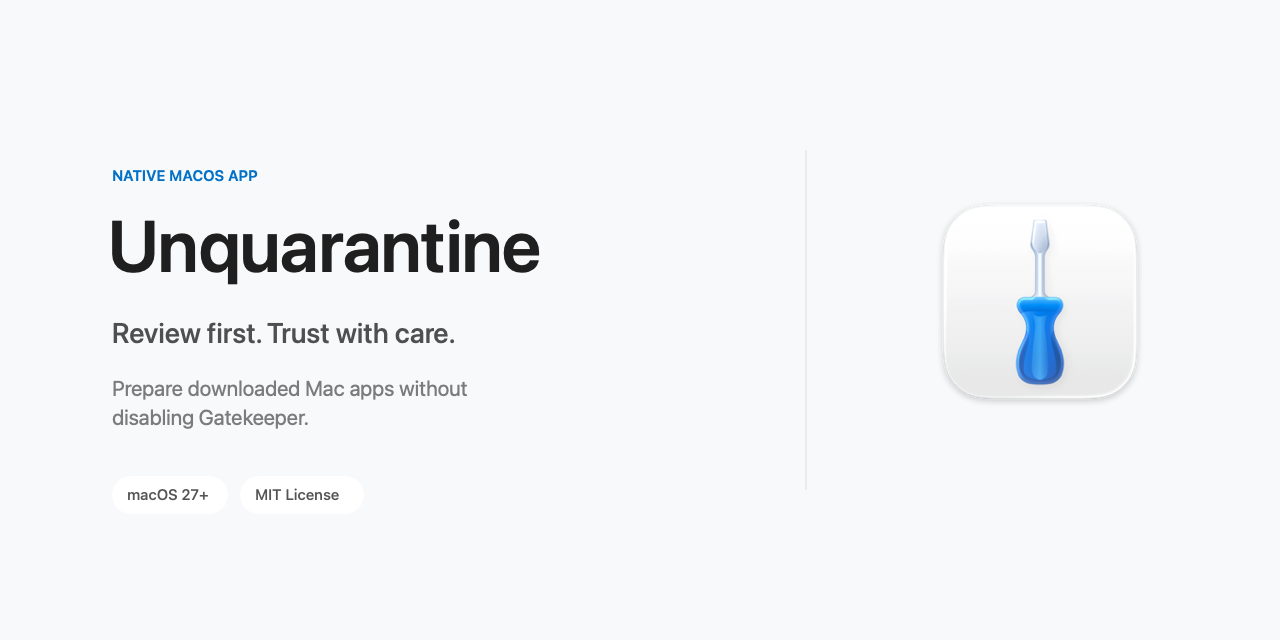
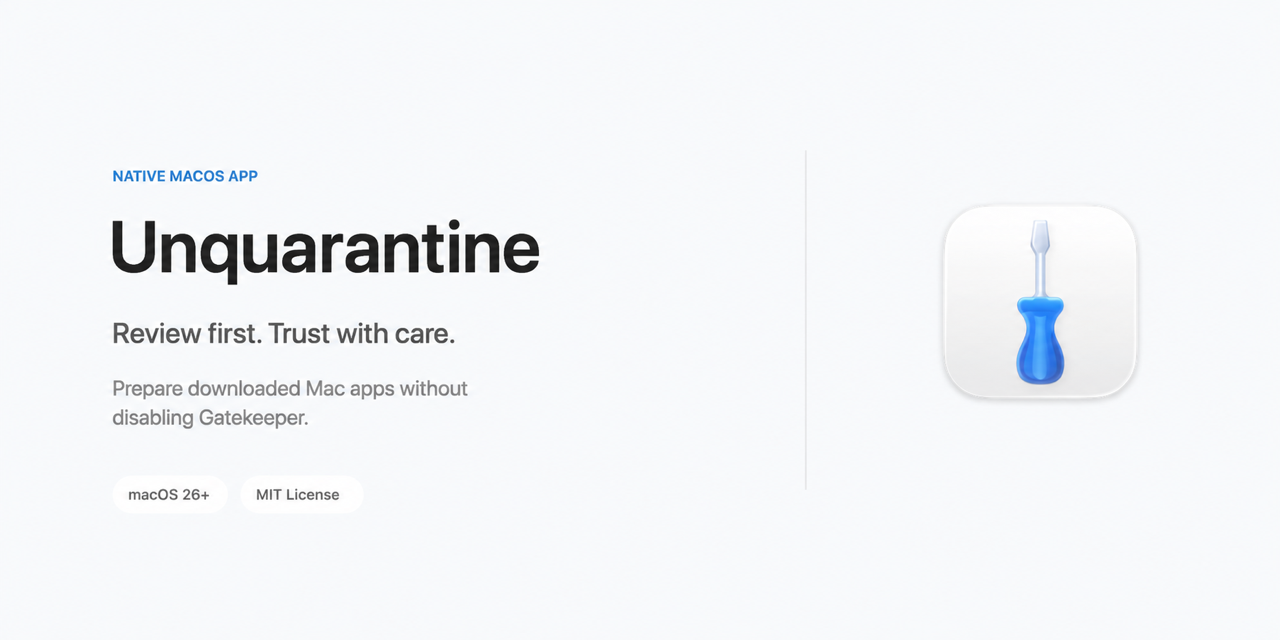
Prepare 0.1.0 release with universal macOS support

diff --git a/Sources/Unquarantine/UnquarantineApp.swift b/Sources/Unquarantine/UnquarantineApp.swift
@@ -84,7 +84,7 @@ private struct AboutView: View {
       Text("Unquarantine")
         .font(.system(size: 14, weight: .semibold))
 
-      Text("Version 1.0")
+      Text("Version \(version)")
         .font(.system(size: 11))
         .foregroundStyle(.secondary)
 
@@ -99,6 +99,10 @@ private struct AboutView: View {
         Color(nsColor: .windowBackgroundColor)
       }
     }
+  }
+
+  private var version: String {
+    Bundle.main.object(forInfoDictionaryKey: "CFBundleShortVersionString") as? String ?? "0.1.0"
   }
 
   private var coffeeGold: Color {

diff --git a/Package.swift b/Package.swift
@@ -5,7 +5,7 @@ import PackageDescription
 let package = Package(
     name: "Unquarantine",
     platforms: [
-        .macOS(.v27)
+        .macOS(.v26)
     ],
     targets: [
         .executableTarget(

diff --git a/README.md b/README.md
@@ -2,7 +2,7 @@
   <img src="docs/media/icon.png" alt="Unquarantine app icon" width="88" />
   <h1>Unquarantine</h1>
   <p>A quiet, deliberate way to prepare a downloaded Mac app.</p>
-  <p><strong>macOS 27 or later</strong> · SwiftUI · MIT</p>
+  <p><strong>Universal for Apple silicon and Intel</strong> · SwiftUI · macOS 26+ · MIT</p>
 </div>
 
 <p align="center">
@@ -12,6 +12,17 @@
 Unquarantine lets you review an app before removing its macOS quarantine flag.
 It works with `.app` bundles and disk images, and asks for administrator
 approval only when a copy into `/Applications` needs it.
+
+## Download
+
+Choose the installer for your Mac from the [0.1.0 release](https://github.com/ChloeVPin/Unquarantine/releases/tag/v0.1.0):
+
+- **Apple silicon:** macOS 26 or later
+- **Intel:** macOS 26
+
+Open the disk image and drag Unquarantine into Applications. These release
+builds are ad-hoc signed and not notarized, so macOS may ask you to confirm the
+first launch. In Finder, Control-click the app and choose **Open** to confirm.
 
 > Removing quarantine is an explicit exception, not a safety check. Unquarantine
 > does not scan apps or verify their developers.
@@ -30,7 +41,9 @@ ejects the image when the flow ends. It never replaces an app already in
 
 ## Build from source
 
-You’ll need a Mac with Xcode and the macOS 27 SDK.
+You’ll need Xcode with the macOS 27 SDK. The build produces a universal app for
+Apple silicon and Intel. Apple silicon Macs can run it on macOS 26 or later;
+Intel Macs can run it on macOS 26, the latest Intel-compatible release.
 
 ```sh
 ./scripts/build-app.sh

diff --git a/docs/ARCHITECTURE.md b/docs/ARCHITECTURE.md
@@ -28,6 +28,8 @@ off removes the LaunchAgent and copied helper.
 
 ## Build
 
-The package targets macOS 27. `scripts/build-app.sh` builds both executables,
-compiles the Icon Composer asset, assembles `dist/Unquarantine.app`, and applies
-an ad-hoc signature for local use.
+The package targets macOS 26 and builds with the macOS 27 SDK. The build script
+compiles both executables for arm64 and x86_64, combines each pair into a
+universal binary, compiles the Icon Composer asset, assembles
+`dist/Unquarantine.app`, and applies an ad-hoc signature for local use. macOS 27
+supports Apple silicon; Intel Macs can run the app on macOS 26.

diff --git a/CONTRIBUTING.md b/CONTRIBUTING.md
@@ -10,7 +10,9 @@ controls and services.
 - For a visual change, include a short screen capture when it adds useful
   context.
 - Keep new dependencies and background work to a minimum.
-- Build with `./scripts/build-app.sh` on macOS 27 with the matching SDK.
+- Build with `./scripts/build-app.sh` using Xcode with the macOS 27 SDK. The
+  resulting universal app supports macOS 26 and later on Apple silicon, and
+  macOS 26 on Intel.
 
 Please do not include app bundles, disk images, private data, or local build
 products in a change. For a security issue, follow [SECURITY.md](SECURITY.md)

diff --git a/CHANGELOG.md b/CHANGELOG.md
@@ -3,9 +3,10 @@
 Changes worth calling out are recorded here. Versions follow the version shown
 in the app.
 
-## 1.0
+## 0.1.0
 
 - Initial version of Unquarantine.
 - Prepare `.app`, `.dmg`, and `.iso` files with an explicit trust step.
 - Add optional `/Applications` monitoring and appearance preferences.
-- Include a native SwiftUI interface for macOS 27 and later.
+- Include a native SwiftUI interface for macOS 26 and later, built for Apple
+  silicon and Intel.
